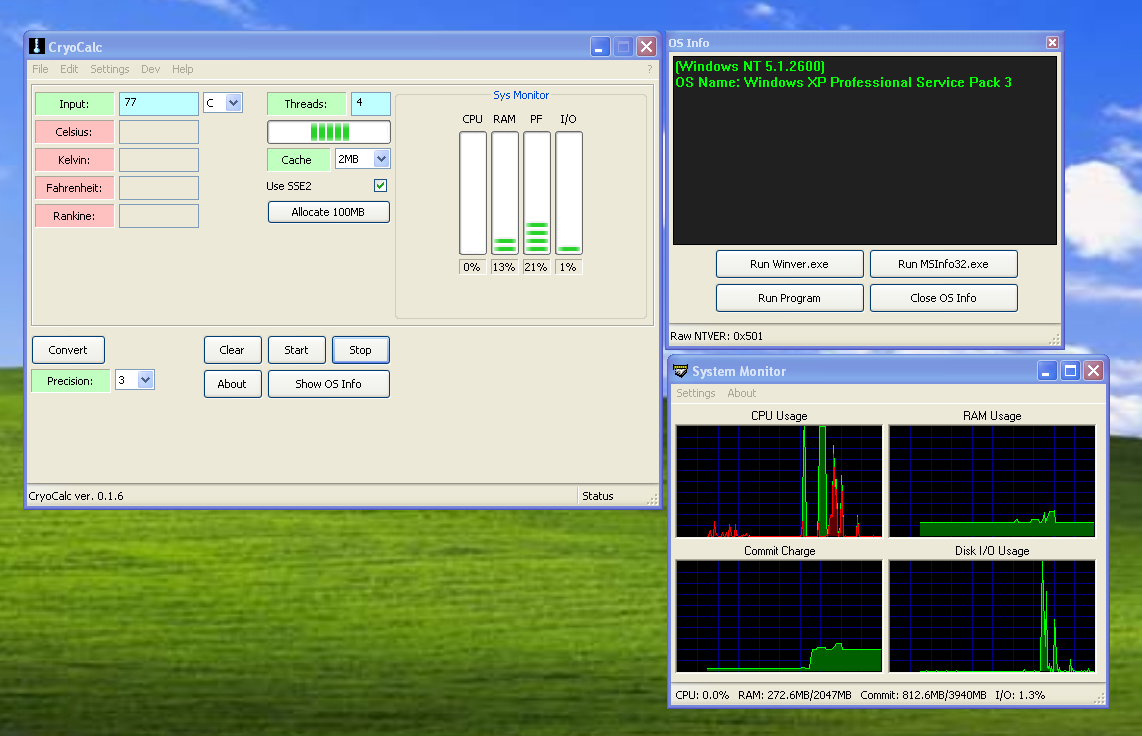
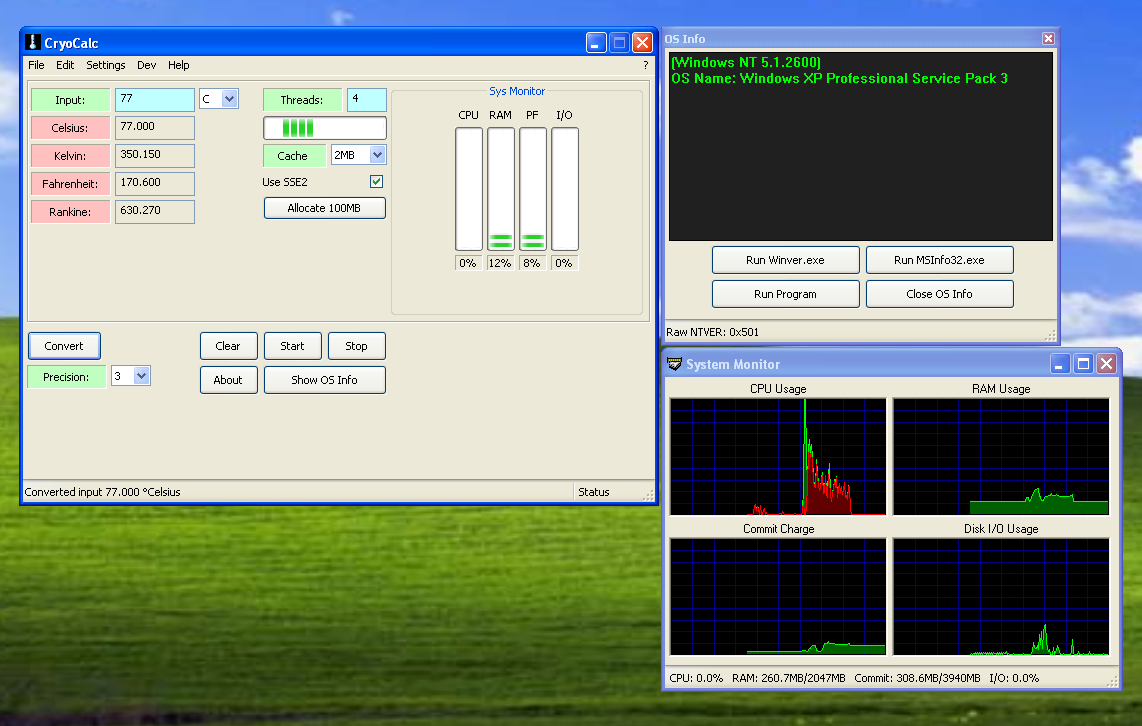
update README.md, screenshot yet again, and organize resource.h values

diff --git a/src/resource.h b/src/resource.h
@@ -45,6 +45,11 @@
 #define IDM_DISABLE_CON             220 // TODO
 #define IDM_SYSMON                  221
 
+// Monitor Window menu
+#define IDM_CLOSE_MON               250
+#define IDM_ABOUT_MON               251
+#define IDM_SHOW_KERNEL             252
+
 // Buttons
 #define IDC_CONVERT                 300
 #define IDC_CONVERT_BUTTON          301
@@ -59,8 +64,7 @@
 #define IDC_ALLOC_MEM               310
 #define IDC_CLOSE_OSINFO            311
 #define IDC_CLOSE_OSINFO_BUTTON     312
-#define IDC_PROGRESS                313
-#define IDC_SYSMON_BUTTON           314
+#define IDC_SYSMON_BUTTON           313
 
 // User input controls
 #define IDC_INPUT                   320
@@ -88,19 +92,18 @@
 #define IDC_FAHRENHEIT              342
 #define IDC_RANKINE                 343
 
-#define IDC_CPUBAR                  350
-#define IDC_MEMBAR                  351
-#define IDC_COMMITBAR               352
-#define IDC_IOBAR                   353
+// Progress bars
+#define IDC_PROGRESS                350
+#define IDC_CPUBAR                  351
+#define IDC_MEMBAR                  352
+#define IDC_COMMITBAR               353
+#define IDC_IOBAR                   354
 
 // Os Info Logging Output Window
 #define IDC_OSINFO_OUT              380
 
 // Monitor Window
-#define IDC_WPERF                   390
-#define IDM_CLOSE_MON               391
-#define IDM_ABOUT_MON               392
-#define IDM_SHOW_KERNEL             393
+#define IDC_WPERF                   381
 
 // For resources to be loaded without an ID from the system.
 #ifndef IDC_STATIC

diff --git a/README.md b/README.md
@@ -2,12 +2,13 @@
 
 ![screenshot](./assets/screenshot.png?raw=true "Screenshot")
 
+## About
+
 A small Windows 2000+ compatible program that converts between temperature units, for cryogenic work and LN2 overclocking.  
-It also has a CPU stresser/burner feature similar to cpuburner.exe from [Furmark](https://geeks3d.com/public/jegx/2017q2/furmark-1-19-geforce-gtx1070-stress-test.jpg).  
-Also recently added a CPU usage monitoring function.
+It has a CPU stresser/burner feature similar to cpuburner.exe from [Furmark](https://geeks3d.com/public/jegx/2017q2/furmark-1-19-geforce-gtx1070-stress-test.jpg).  
+I recently also added some system monitoring functionality including a cool mini "Task Manager" style System Monitor window.
 
-## Motivation
-
+### Motivation
 The app is written in raw Win32 API, using C++.
 I wanted it to be an exercise in C++ and Win32, to make a "complete" app with menus, buttons, status bar, an installer, etc.
 It is compiled using a custom MinGW toolchain to support Windows 2000/XP, and is written to support these old OSes.  
